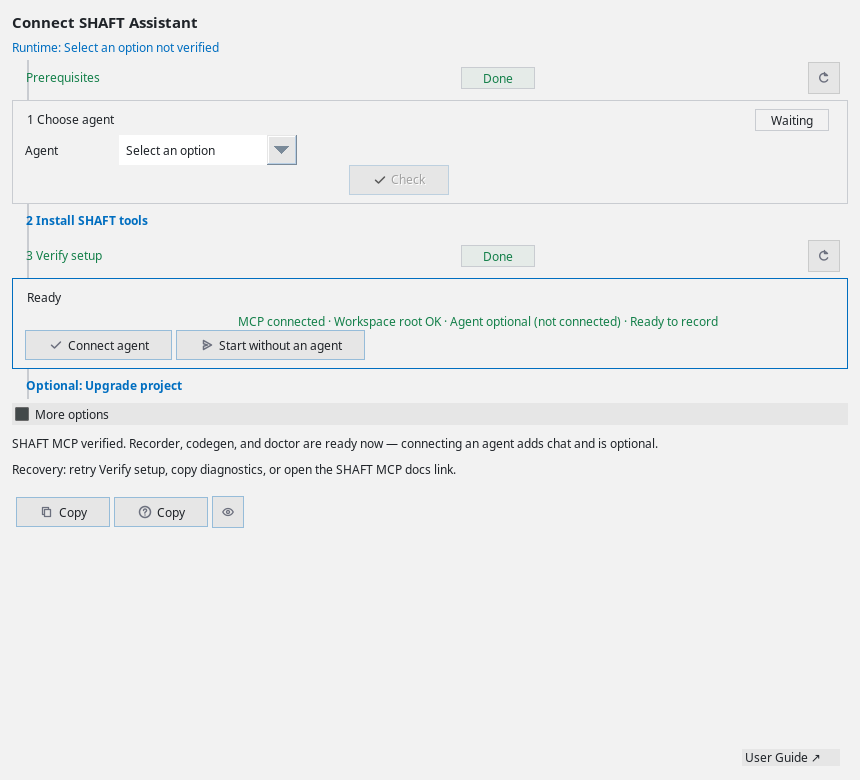
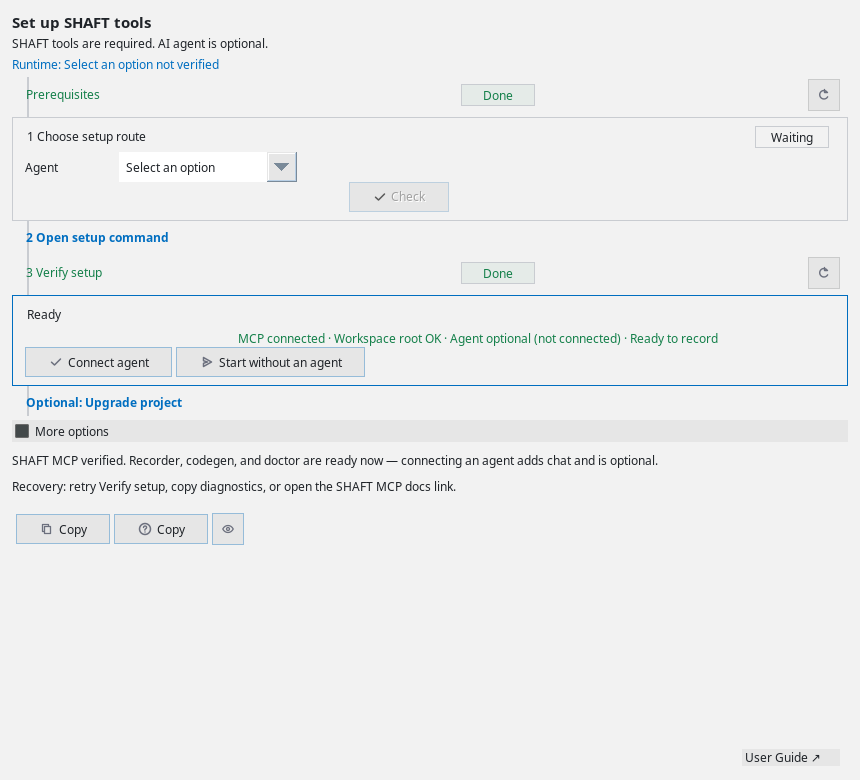
docs: explain IntelliJ setup and agent trust UX

diff --git a/docs/agentic/intellij.md b/docs/agentic/intellij.md
@@ -23,21 +23,23 @@ Install the plugin from JetBrains Marketplace when it is published, then open
 IntelliJ IDEA when the IDE prompts for restart so the SHAFT tool window and
 actions are fully registered. The core Assistant tool window can load without
 IntelliJ's Java plugin; Java-specific actions are registered only when Java
-support is available. First run shows a short wizard inside the tool window:
+support is available. First run shows **Set up SHAFT tools** inside the tool
+window. SHAFT tools are required; connecting an AI agent is optional:
 
 0. **Prerequisites** detects Python 3, Java, Maven, Node.js when needed, and the
    selected agent CLI. Missing tools and the optional SHAFT Engine warm-up use
    **Open in Terminal**; **Recheck** detects them again after installation.
-1. **Choose agent** starts unselected with a **Select an option** placeholder.
+1. **Choose setup route** starts unselected with a **Select an option** placeholder.
    Choose Codex CLI, Claude Code, Claude Desktop, Grok CLI, GitHub Copilot CLI,
    GitHub Copilot in IntelliJ, or Gemini in IntelliJ. **Check** validates the
    chosen route when the plugin can observe it.
-2. **Install SHAFT tools** prepares the route-specific Agentic Tools installer
-   through **Open in Terminal**. Press Enter in Terminal to run it. The plugin
-   copies the command as a fallback but never executes the installer itself.
+2. **Open setup command** prepares the route-specific Agentic Tools installer
+   through **Open setup command in terminal**. The plugin copies the command,
+   opens IntelliJ Terminal, and pre-types it. Review the command and press Enter
+   yourself; the plugin never executes the installer.
 3. **Verify setup** finds the installed SHAFT MCP command, verifies the
    workspace, and asks the selected local agent whether it can access
-   `shaft-mcp`. Success reveals **Ready** and **Start chatting**. When a stale
+   `shaft-mcp`. Success reveals **Ready** and **Open Assistant**. When a stale
    CLI session blocks access, recovery also uses **Open in Terminal**.
 
 After verification, **Optional: Upgrade project** unlocks. It reads the open
@@ -79,12 +81,11 @@ Without a verified MCP command, the landing view keeps the click-through setup
 visible. Unverified settings stay behind the same setup gate until
 **Verify setup** passes.
 
-![SHAFT IntelliJ Assistant setup wizard with Prerequisites marked Done and Choose agent expanded](/img/agentic/intellij-plugin-mcp-setup.png)
+![SHAFT IntelliJ setup showing required SHAFT tools, an optional AI agent, and the three-step setup rail](/img/agentic/intellij-plugin-mcp-setup.png)
 
-Setup opens with a **Connect SHAFT Assistant** summary and a simple vertical
-stepper with visible state chips, only showing the buttons relevant to the
-current step, so the path reads as
-**Prerequisites -> Choose agent -> Install SHAFT tools -> Verify setup -> Ready -> Optional: Upgrade project**.
+Setup opens with a simple vertical stepper with visible state chips, only
+showing the buttons relevant to the current step. The path reads as
+**Prerequisites -> Choose setup route -> Open setup command -> Verify setup -> Ready -> Optional: Upgrade project**.
 Every state chip reflects a real verification of what is on the machine or in
 the project — never a "you clicked the button" heuristic — and a check that
 ran and did not pass shows an explicit red **Failed** chip with recovery
@@ -115,7 +116,7 @@ instead of an external agent CLI.
 
 ![SHAFT IntelliJ Assistant setup wizard with Gemini in IntelliJ selected and an empty Gemini API key field for pasting a Google AI Studio key](/img/agentic/intellij-plugin-mcp-setup-gemini.png)
 
-![Completed SHAFT IntelliJ Assistant setup showing Verify setup marked Done, Choose agent still waiting on Select an option, and a Ready row with Start without an agent](/img/agentic/intellij-plugin-mcp-setup-success.png)
+![Completed SHAFT IntelliJ setup showing verified MCP tools and Start without an agent](/img/agentic/intellij-plugin-mcp-setup-success.png)
 
 ![SHAFT IntelliJ Assistant setup in dark mode with Verify setup marked Failed and Copy actions for diagnostics and the SHAFT MCP docs link](/img/agentic/intellij-plugin-mcp-setup-error-dark.png)
 
@@ -135,9 +136,9 @@ it:
 - **MCP probe**: rerun the installer command, then click **Verify setup** once
   it finishes.
 
-The setup pane uses **Open in Terminal** for runnable commands and **Copy** for
-diagnostic output or links. Every terminal action also copies its command as a
-fallback.
+The setup pane uses **Open setup command in terminal** for runnable setup
+commands and **Copy** for diagnostic output or links. A terminal action copies
+and pre-types its command, but never runs it.
 Codex users should verify `codex mcp list`, Claude users should
 verify `claude mcp list` or restart Claude Desktop after desktop config changes,
 GitHub Copilot users should check the Copilot MCP configuration and
@@ -189,10 +190,11 @@ tool was chosen. When a tool fails, the result leads with a short headline
 ("`<tool>` couldn't finish"), the humanized error, and exactly one next action,
 so a failure is easy to scan and act on rather than a wall of exception text.
 
-An empty chat keeps the surface uncluttered. The Assistant offers three chips
-that pre-fill the composer (Record a sample flow / Ask how to assert / Diagnose
-my last failure) plus a dismissible first-run coach: "Finish setup → Record a
-sample → Review code" with a **Got it** button that hides it permanently. The
+An empty chat starts with three outcome actions: **Plan a test from a scenario**,
+**Record a sample flow**, and **Diagnose a failure**. Each action only pre-fills
+the composer; review or edit the request before you send it. The Assistant also
+shows a dismissible first-run coach: "Finish setup → Record a sample → Review
+code" with a **Got it** button that hides it permanently. The
 composer placeholder invites a plain-language request (record, generate a test,
 diagnose failures, upgrade) and wraps to the panel width so it is always fully
 readable. **Run settings** stays collapsed as a chip until you expand it to
@@ -444,6 +446,13 @@ Compact Assistant controls keep JetBrains-style glyphs, including Copy all,
 Clear, and Rerun transcript actions. All controls retain accessible names,
 status metadata, and tooltips. Code blocks use a light editor-style palette in
 light mode and a distinct dark surface in dark mode.
+
+The header keeps a trust summary visible while you work:
+`Agent · Status · Mode · Access · Context`. It reports **Not configured** when
+no route is selected, distinguishes connected, authentication-needed, and
+unavailable provider states, identifies read-only, source-edits-with-approval,
+or unrestricted access, and counts attached context. Narrow tool windows keep
+model, effort, Verbose, and Auto-compact controls inside **Run settings**.
 While a prompt runs, the submit icon becomes an animated spinner;
 hovering it changes the same square control into cancel. If you cancel, the
 request ends with a dedicated final transcript entry and no capture-generated
@@ -476,6 +485,14 @@ expand it to inspect that one result's raw payload without turning on
 Verbose for the whole session. Like Verbose's raw-response echo, this raw
 evidence is transient view state only; it is never written to persisted
 chat history (see below).
+
+Assistant output is grouped into labeled run records such as **Run · Result**,
+**Run · Action and evidence**, **Run · Raw activity**, and **Run · Failed**.
+Action and raw-activity details start collapsed; use **Show run details** and
+**Hide run details** to inspect them. Evidence image previews are buttons, so
+you can reach and open them with the keyboard. Raw evidence uses the visible
+**Show raw output** and **Hide raw output** controls instead of a tooltip-only
+state.
 Local Agent mode is blocked from
 source mutation until the user explicitly approves it for that request. For
 browser-only tasks, leave `Allow source edits` off; enable it when the request
@@ -605,7 +622,11 @@ generated class.
 
 ![SHAFT IntelliJ Assistant chat composer showing a generated WikipediaSearchTest class under Confirmed target: https://en.wikipedia.org/wiki/Main_Page, with copy, download, delete, and rerun buttons above the prompt box, and a compact Run settings chip before an agent route is selected](/img/agentic/intellij-plugin-assistant.png)
 
-![SHAFT IntelliJ Assistant empty composer with Record a sample flow, Ask how to assert, and Diagnose my last failure chips, a compact Run settings chip, and an attach control](/img/agentic/intellij-plugin-assistant-empty.png)
+![SHAFT IntelliJ Assistant empty state with a visible trust summary and three outcome actions that prefill the composer](/img/agentic/intellij-plugin-assistant-empty.png)
+
+![SHAFT IntelliJ Assistant narrow dark view showing active work, progress, and cancellation controls](/img/agentic/intellij-plugin-assistant-active-status-narrow.png)
+
+![SHAFT IntelliJ Assistant run result with the raw output disclosure expanded](/img/agentic/intellij-plugin-assistant-tool-result-raw-output.png)
 
 The Assistant routes plain-language intent to the right MCP tools:
 
